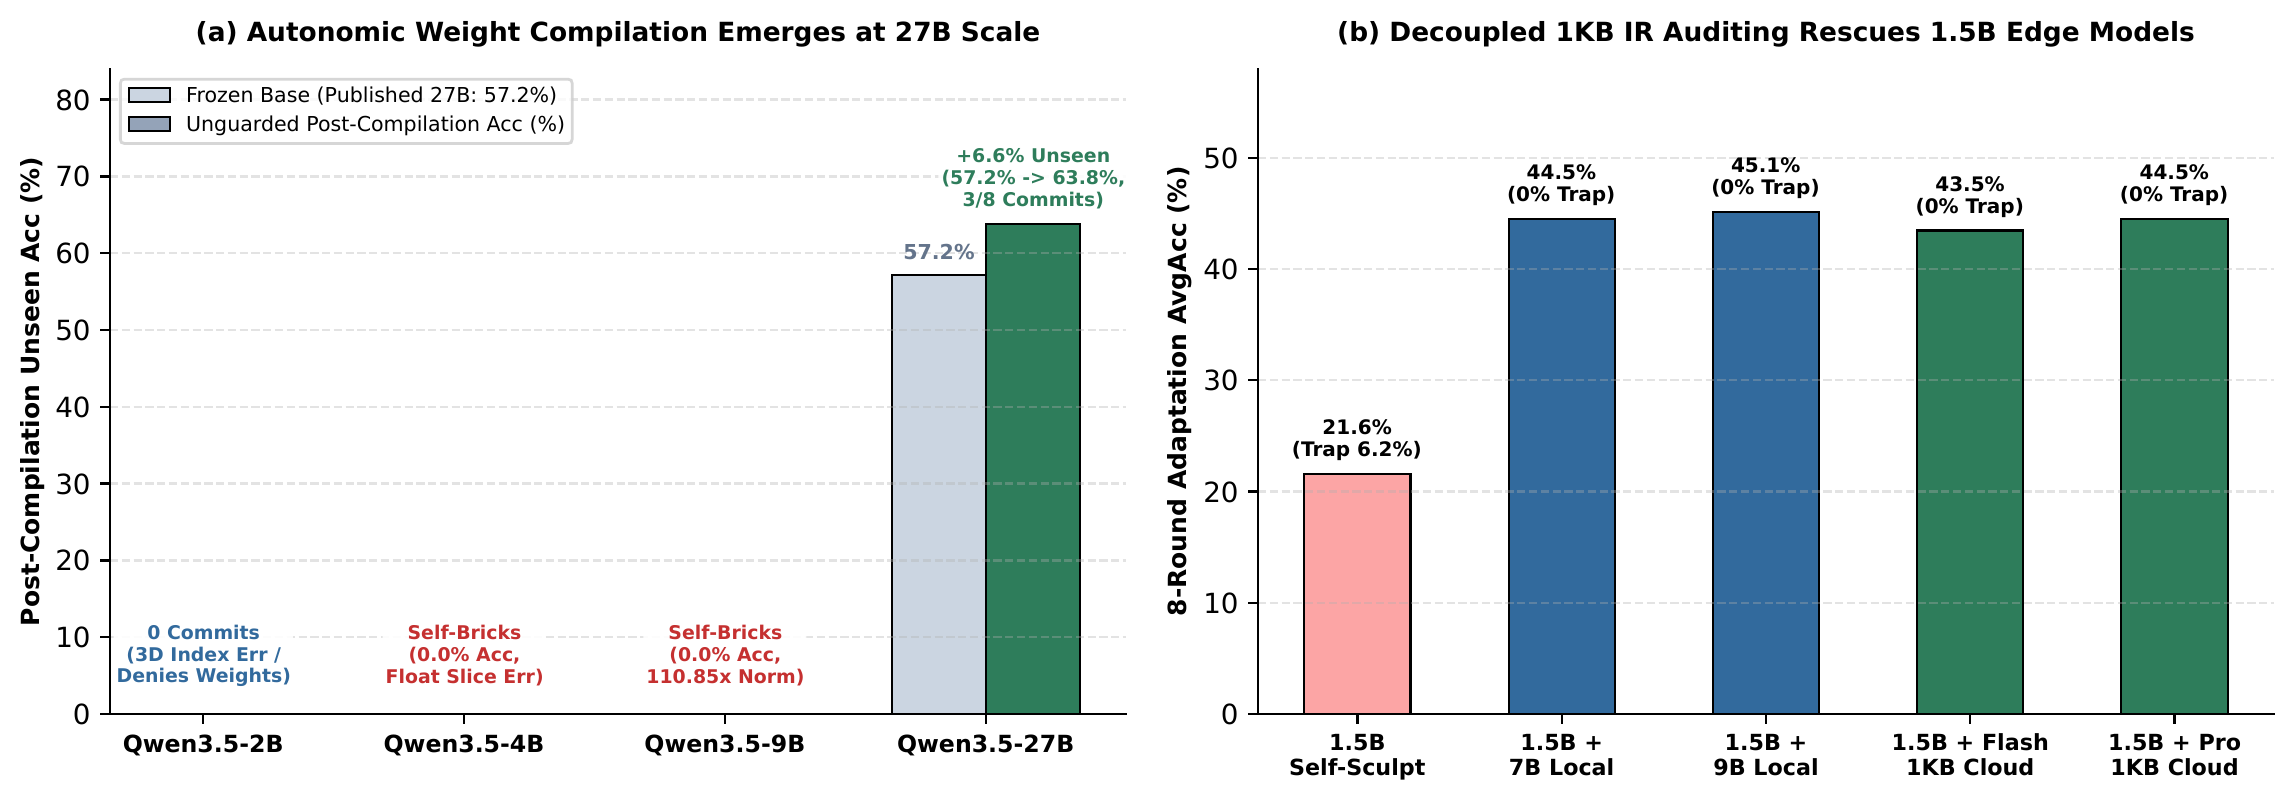
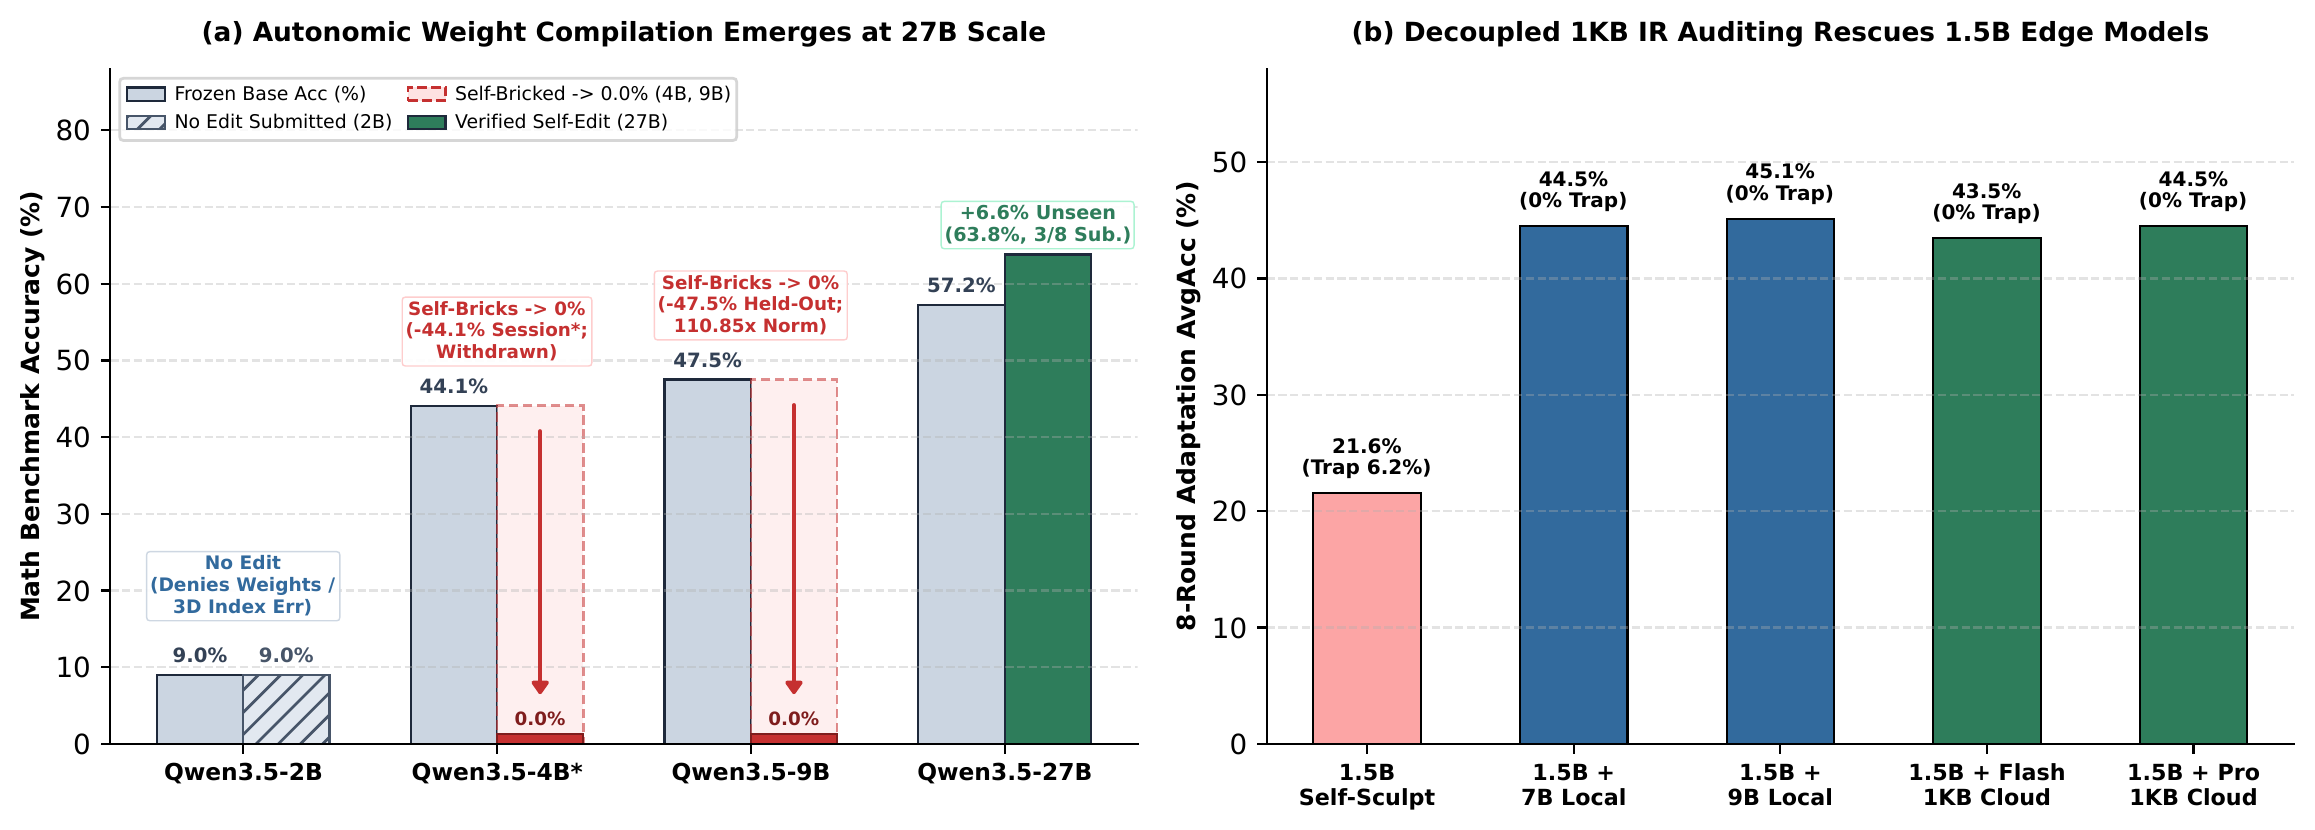
Update fig5_scale_emergence with paired base/post-edit bars across all 4 scales

diff --git a/benchmarks/plot_empirical_laws.py b/benchmarks/plot_empirical_laws.py
@@ -33,45 +33,70 @@ C_GRAY = "#64748B"
 
 
 def plot_fig5_scale_emergence(data: dict) -> None:
-    fig, (ax1, ax2) = plt.subplots(1, 2, figsize=(11.5, 4.0))
+    from matplotlib.patches import Patch
 
-    # Panel (a): 100% Verified Scale Emergence Outcomes across Qwen3.5-{2B, 4B, 9B, 27B}
-    # (Live GB10 sandbox logs for 2B/4B/9B + published Qwen3.5-27B numbers from Fan et al., arXiv:2611.21885)
-    scales = ["Qwen3.5-2B", "Qwen3.5-4B", "Qwen3.5-9B", "Qwen3.5-27B"]
-    post_compile_acc = [0.0, 0.0, 0.0, 63.8]
-    ref_27b_base = 57.2
-    status_tags = [
-        "0 Commits\n(3D Index Err /\nDenies Weights)",
-        "Self-Bricks\n(0.0% Acc,\nFloat Slice Err)",
-        "Self-Bricks\n(0.0% Acc,\n110.85x Norm)",
-        "+6.6% Unseen\n(57.2% -> 63.8%,\n3/8 Commits)",
-    ]
+    fig, (ax1, ax2) = plt.subplots(1, 2, figsize=(11.6, 4.15))
 
+    # Panel (a): Paired Base vs. Post-Edit Accuracy across Qwen3.5-{2B, 4B, 9B, 27B}
+    # Ground-truth numbers from Fan et al. (arXiv:2611.21885, Table 2 & Fig. 43) + local sandbox autopsy
+    scales = ["Qwen3.5-2B", "Qwen3.5-4B*", "Qwen3.5-9B", "Qwen3.5-27B"]
+    base_accs = [9.0, 44.1, 47.5, 57.2]
     x = np.arange(len(scales))
-    w = 0.36
-    # Show published 27B frozen baseline next to 27B post-compilation, and post-attempt outcome across all 4 scales
-    ax1.bar([3 - w / 2], [ref_27b_base], width=w, color="#CBD5E1", edgecolor="black", lw=0.75, label="Frozen Base (Published 27B: 57.2%)")
-    ax1.text(3 - w / 2, ref_27b_base + 1.4, "57.2%", ha="center", va="bottom", fontsize=7.4, color=C_GRAY, fontweight="bold")
+    w = 0.34
 
-    bar_x = [0.0, 1.0, 2.0, 3 + w / 2]
-    bar_colors = ["#94A3B8", C_RED, C_RED, C_GREEN]
-    b2 = ax1.bar(bar_x, post_compile_acc, width=w, color=bar_colors, edgecolor="black", lw=0.75, label="Unguarded Post-Compilation Acc (%)")
+    # 1. Base accuracy bars across all 4 scales
+    ax1.bar(x - w / 2, base_accs, width=w, color="#CBD5E1", edgecolor="#1E293B", lw=0.8)
+    for bx, bh in zip(x - w / 2, base_accs):
+        ax1.text(bx, bh + 1.1, f"{bh:.1f}%", ha="center", va="bottom", fontsize=7.1, color="#334155", fontweight="bold")
 
-    for idx, (bx, h, tag) in enumerate(zip(bar_x, post_compile_acc, status_tags)):
-        tc = C_GREEN if idx == 3 else (C_RED if idx in (1, 2) else C_BLUE)
-        y_pos = h + 1.8 if h > 0 else 3.5
+    # 2a. 2B: No edit submitted -> unchanged at 9.0% (hatched)
+    ax1.bar([0 + w / 2], [9.0], width=w, facecolor="#E2E8F0", edgecolor="#475569", hatch="///", lw=0.8)
+    ax1.text(0 + w / 2, 9.0 + 1.1, "9.0%", ha="center", va="bottom", fontsize=7.1, color="#475569", fontweight="bold")
+    ax1.text(
+        0.0, 16.5, "No Edit\n(Denies Weights /\n3D Index Err)",
+        ha="center", va="bottom", fontsize=6.7, color=C_BLUE, fontweight="bold",
+        bbox=dict(boxstyle="round,pad=0.18", facecolor="white", edgecolor="#CBD5E1", lw=0.5, alpha=0.94),
+    )
+
+    # 2b. 4B & 9B: Self-bricked to 0.0% -> show dashed drop envelope + downward arrow + 0.0% floor bar
+    for idx, b_acc, tag in [
+        (1, 44.1, "Self-Bricks -> 0%\n(-44.1% Session*;\nWithdrawn)"),
+        (2, 47.5, "Self-Bricks -> 0%\n(-47.5% Held-Out;\n110.85x Norm)"),
+    ]:
+        rx = idx + w / 2
+        ax1.bar([rx], [b_acc], width=w, facecolor="#FEE2E2", edgecolor=C_RED, ls="--", lw=0.95, alpha=0.55)
+        ax1.bar([rx], [1.3], width=w, facecolor=C_RED, edgecolor="#7F1D1D", lw=0.7)
+        ax1.annotate(
+            "", xy=(rx, 5.6), xytext=(rx, b_acc - 2.6),
+            arrowprops=dict(arrowstyle="-|>,head_width=0.24,head_length=0.34", color=C_RED, lw=1.45),
+        )
+        ax1.text(rx, 1.9, "0.0%", ha="center", va="bottom", fontsize=6.6, color="#7F1D1D", fontweight="bold")
         ax1.text(
-            bx, y_pos, tag,
-            ha="center", va="bottom", fontsize=6.8, color=tc, fontweight="bold",
-            bbox=dict(boxstyle="round,pad=0.16", facecolor="white", edgecolor="none", alpha=0.90),
+            idx, b_acc + 5.6, tag,
+            ha="center", va="bottom", fontsize=6.6, color=C_RED, fontweight="bold",
+            bbox=dict(boxstyle="round,pad=0.18", facecolor="white", edgecolor="#FECACA", lw=0.5, alpha=0.94),
         )
 
+    # 2c. 27B: Verified self-compiled improvement 57.2% -> 63.8% (+6.6%)
+    ax1.bar([3 + w / 2], [63.8], width=w, color=C_GREEN, edgecolor="#1E293B", lw=0.8)
+    ax1.text(
+        3 + w / 2 - 0.04, 65.0, "+6.6% Unseen\n(63.8%, 3/8 Sub.)",
+        ha="center", va="bottom", fontsize=6.9, color=C_GREEN, fontweight="bold",
+        bbox=dict(boxstyle="round,pad=0.18", facecolor="white", edgecolor="#A7F3D0", lw=0.5, alpha=0.94),
+    )
+
+    legend_handles = [
+        Patch(facecolor="#CBD5E1", edgecolor="#1E293B", lw=0.8, label="Frozen Base Acc (%)"),
+        Patch(facecolor="#E2E8F0", edgecolor="#475569", hatch="///", lw=0.8, label="No Edit Submitted (2B)"),
+        Patch(facecolor="#FEE2E2", edgecolor=C_RED, ls="--", lw=0.95, label="Self-Bricked -> 0.0% (4B, 9B)"),
+        Patch(facecolor=C_GREEN, edgecolor="#1E293B", lw=0.8, label="Verified Self-Edit (27B)"),
+    ]
     ax1.set_xticks(x)
-    ax1.set_xticklabels(scales, fontsize=8.5, fontweight="bold")
-    ax1.set_ylabel("Post-Compilation Unseen Acc (%)", fontsize=9.0, fontweight="bold")
-    ax1.set_ylim(0, 84)
+    ax1.set_xticklabels(scales, fontsize=8.4, fontweight="bold")
+    ax1.set_ylabel("Math Benchmark Accuracy (%)", fontsize=9.0, fontweight="bold")
+    ax1.set_ylim(0, 88)
     ax1.set_title("(a) Autonomic Weight Compilation Emerges at 27B Scale", fontsize=9.5, fontweight="bold", pad=10)
-    ax1.legend(loc="upper left", fontsize=7.4, frameon=True, facecolor="white")
+    ax1.legend(handles=legend_handles, loc="upper left", ncol=2, fontsize=6.8, frameon=True, facecolor="white", columnspacing=0.9, handletextpad=0.5)
     ax1.grid(axis="y", ls="--", alpha=0.35)
 
     # Panel (b): Exact Logged runs/exp5_sculptor_scaling/all_results.json
